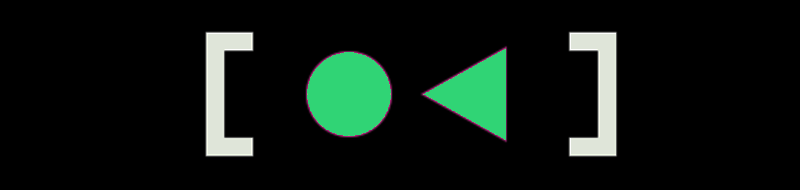
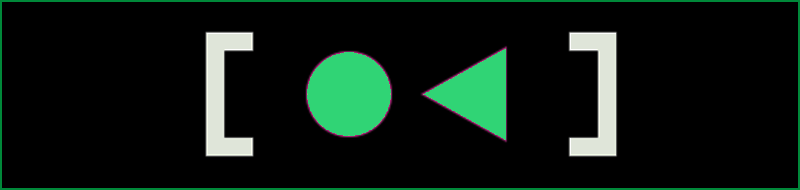
Feat: Updated image and minor website edits

Changed region(s): [[0.0, 0.9737, 1.0, 1.0], [0.0, 0.0, 1.0, 0.0263]]

diff --git a/index.md b/index.md
@@ -81,7 +81,9 @@ svc.timeout()        # Set the timeout value for systemctl
 ```
 ---
 
-# Sphinx Generated Documentation
+# Sphinx Docs
+
+Low-level documentation generated by [Sphinx](https://www.sphinx-doc.org/en/master/) and published to [ReadTheDocs](https://readthedocs.org/).
 
 - [SystemCtl on ReadTheDocs](https://systemctl.readthedocs.io/en/latest/)
 
